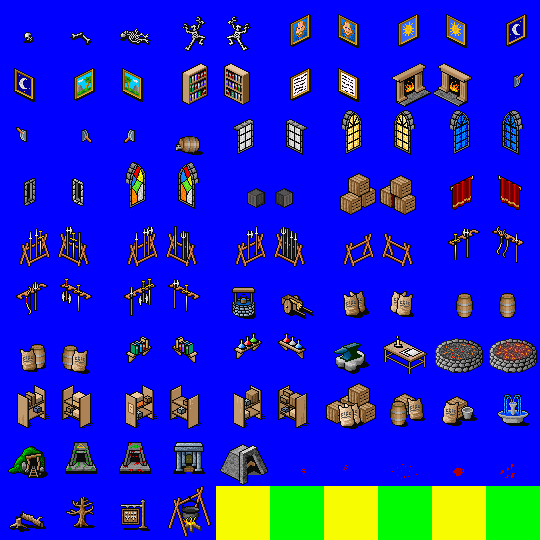
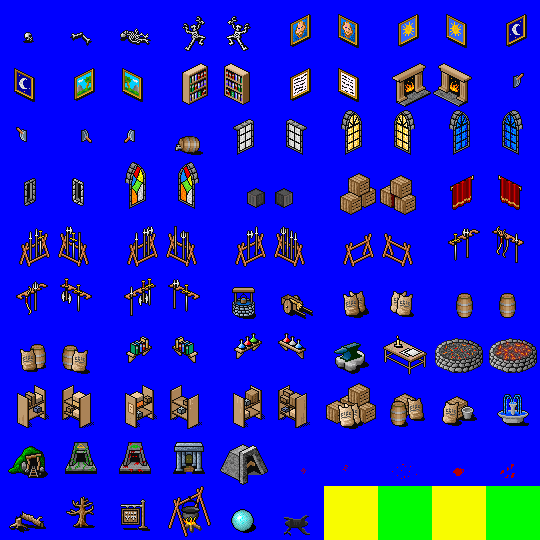
Started Special_Encounters, attack and truce conversation options working.

Changed region(s): [[0.3852, 0.8889, 0.6222, 1.0]]

diff --git a/narrator/specencounters.py b/narrator/specencounters.py
@@ -1,4 +1,4 @@
-from plots import Plot,PlotError
+from plots import Plot,PlotError,PlotState
 import context
 import items
 import maps
@@ -10,5 +10,109 @@ import teams
 import characters
 import random
 import randmaps
+import effects
+import stats
+import animobs
+
+#  *****************************
+#  ***   SPECIAL_ENCOUNTER   ***
+#  *****************************
+#
+# A harder-than-normal encounter with better-than-normal treasure. Or just an
+# unusual encounter that you don't want showing up all over the place.
+#
+
+class DragonLair( Plot ):
+    LABEL = "zSPECIAL_ENCOUNTER"
+    UNIQUE = True
+    @classmethod
+    def matches( self, pstate ):
+        """Requires the LOCALE to exist."""
+        return pstate.elements.get("LOCALE")
+    def custom_init( self, nart ):
+        scene = self.elements.get("LOCALE")
+        mygen = nart.get_map_generator( scene )
+        room = mygen.DEFAULT_ROOM()
+
+        self.register_element( "_EXTERIOR", room, dident="LOCALE" )
+
+        interior = maps.Scene( 50,50, sprites={maps.SPRITE_WALL: "terrain_wall_mine.png", 
+            maps.SPRITE_GROUND: "terrain_ground_under.png", maps.SPRITE_FLOOR: "terrain_floor_gravel.png",
+            maps.SPRITE_CHEST: "terrain_chest_metal.png", maps.SPRITE_INTERIOR: "terrain_int_temple.png" },
+            biome=context.HAB_CAVE, setting=self.setting, desctags=(context.MAP_DUNGEON,context.MAP_GODOWN,context.GEN_DRAGON) )
+        igen = randmaps.CaveScene( interior )
+
+        interior.name = "{0} Manor".format( namegen.ELDRITCH.gen_word() )
+
+        gate_1 = waypoints.Pit()
+        gate_2 = waypoints.SpiralStairsUp()
+        gate_1.destination = interior
+        gate_1.otherside = gate_2
+        gate_2.destination = scene
+        gate_2.otherside = gate_1
+
+        self.register_scene( nart, interior, igen, ident="BUILDING_INT", dident="LOCALE" )
+
+        int_mainroom = randmaps.rooms.SharpRoom( tags=(context.ENTRANCE,), anchor=randmaps.anchors.south, parent=interior )
+        int_mainroom.contents.append( gate_2 )
+        int_mainroom.contents.append( maps.SKULL_ALTAR )
+        gate_2.anchor = randmaps.anchors.south
+
+        # Add the goal room, move the target there.
+        int_goalroom = randmaps.rooms.SharpRoom( tags=(context.GOAL,), parent=interior )
+        target = self.elements[ "TARGET" ]
+        if isinstance( target, items.Item ):
+            dest = waypoints.SmallChest()
+            dest.stock( self.rank )
+            int_goalroom.contents.append( dest )
+        else:
+            dest = int_goalroom
+        self.move_element( ele=target,dest=dest )
+
+
+class EnemyParty( Plot ):
+    LABEL = "SPECIAL_ENCOUNTER"
+    active = True
+    scope = "LOCALE"
+    @classmethod
+    def matches( self, pstate ):
+        """Requires the LOCALE to exist."""
+        return pstate.elements.get("LOCALE")
+    FIGHTERS = ( characters.Warrior, characters.Samurai, characters.Knight, characters.Monk, None )
+    THIEVES = ( characters.Thief, characters.Ninja, characters.Bard, characters.Ranger, None )
+    PRIESTS = ( characters.Priest, characters.Druid, None )
+    MAGES = ( characters.Mage, characters.Necromancer, None )
+    def custom_init( self, nart ):
+        # Add a group of humanoids, neutral reaction score.
+        scene = self.elements.get("LOCALE")
+        mygen = nart.get_map_generator( scene )
+        room = mygen.DEFAULT_ROOM()
+        myteam = self.register_element( "TEAM", teams.Team( default_reaction=-30, strength=0 ) )
+        room.contents.append( myteam )
+        self.register_element( "_ROOM", room, dident="LOCALE" )
+        p1 = self.register_element( "NPC1", monsters.generate_npc(team=myteam,job=random.choice( self.FIGHTERS ),upgrade=True,rank=self.rank), dident="_ROOM")
+        p2 = self.register_element( "NPC2", monsters.generate_npc(team=myteam,job=random.choice( self.THIEVES ),upgrade=True,rank=self.rank), dident="_ROOM")
+        p3 = self.register_element( "NPC3", monsters.generate_npc(team=myteam,job=random.choice( self.PRIESTS ),upgrade=True,rank=self.rank), dident="_ROOM")
+        p4 = self.register_element( "NPC4", monsters.generate_npc(team=myteam,job=random.choice( self.MAGES ),upgrade=True,rank=self.rank), dident="_ROOM")
+        self.add_sub_plot( nart, "RESOURCE_NPCCONVO", PlotState( elements={"NPC":random.choice((p1,p2,p3,p4))} ).based_on( self ) )
+        return True
+    def do_truce( self, explo ):
+        self.elements["TEAM"].charm_roll = 999
+    def get_generic_offers( self, npc, explo ):
+        ol = list()
+        if npc.team is self.elements["TEAM"]:
+            ol.append( dialogue.Offer( msg = "Well that's disappointing... I was hoping for a good fight.",
+             context = context.ContextTag( [context.TRUCE] ), effect=self.do_truce)
+            )
+            ol.append( dialogue.Offer( msg = "[ATTACK]",
+             context = context.ContextTag( [context.ATTACK] ))
+            )
+        return ol
+
+
+
+
+
+
 
 

diff --git a/narrator/specfeatures.py b/narrator/specfeatures.py
@@ -254,6 +254,8 @@ class RedHerringsChest( Plot ):
 
 class RivalParty( Plot ):
     LABEL = "SPECIAL_FEATURE"
+    active = True
+    scope = "LOCALE"
     @classmethod
     def matches( self, pstate ):
         """Requires the LOCALE to exist."""
@@ -262,13 +264,13 @@ class RivalParty( Plot ):
     THIEVES = ( characters.Thief, characters.Ninja, characters.Bard, characters.Ranger, None )
     PRIESTS = ( characters.Priest, characters.Druid, None )
     MAGES = ( characters.Mage, characters.Necromancer, None )
-    LANDMARKS = ( waypoints.HealingFountain, )
+    LANDMARKS = ( waypoints.Fountain,waypoints.PowerCrystal,waypoints.Campsite )
     def custom_init( self, nart ):
         # Add a group of humanoids, neutral reaction score.
         scene = self.elements.get("LOCALE")
         mygen = nart.get_map_generator( scene )
         room = mygen.DEFAULT_ROOM()
-        myteam = teams.Team( default_reaction=10, strength=0 )
+        myteam = self.register_element( "TEAM", teams.Team( default_reaction=0, strength=0 ) )
         room.contents.append( myteam )
         self.register_element( "_ROOM", room, dident="LOCALE" )
         p1 = self.register_element( "NPC1", monsters.generate_npc(team=myteam,job=random.choice( self.FIGHTERS ),upgrade=True,rank=self.rank), dident="_ROOM")
@@ -278,6 +280,18 @@ class RivalParty( Plot ):
         self.add_sub_plot( nart, "RESOURCE_NPCCONVO", PlotState( elements={"NPC":random.choice((p1,p2,p3,p4))} ).based_on( self ) )
         room.contents.append( random.choice( self.LANDMARKS )() )
         return True
+    def do_truce( self, explo ):
+        self.elements["TEAM"].charm_roll = 999
+    def get_generic_offers( self, npc, explo ):
+        ol = list()
+        if npc.team is self.elements["TEAM"]:
+            ol.append( dialogue.Offer( msg = "That is a relief. This place is quite dangerous, you know.",
+             context = context.ContextTag( [context.TRUCE] ), effect=self.do_truce)
+            )
+            ol.append( dialogue.Offer( msg = "[ATTACK]",
+             context = context.ContextTag( [context.ATTACK] ))
+            )
+        return ol
 
 
 class WildernessInn( Plot ):

diff --git a/waypoints.py b/waypoints.py
@@ -92,6 +92,12 @@ class Bookshelf( Waypoint ):
     desc = "You stand before a bookshelf."
     mini_map_label = "Bookshelf"
 
+class Campsite( Waypoint ):
+    TILE = maps.Tile( None, None, maps.CAULDRON )
+    desc = "You stand before a fire."
+    mini_map_label = "Campsite"
+
+
 class Fountain( Waypoint ):
     TILE = maps.Tile( None, None, maps.FOUNTAIN )
     desc = "You stand before a fountain."
@@ -134,6 +140,33 @@ class OpenGateDoor( Waypoint ):
             explo.camp.entrance = self.otherside
         else:
             explo.alert( "This door doesn't seem to go anywhere." )
+
+class Pit( Waypoint ):
+    TILE = maps.Tile( None, None, maps.Pit )
+    ATTACH_TO_WALL = False
+    destination = None
+    otherside = None
+    desc = "You stand before a pit."
+    mini_map_label = "Pit"
+    def unlocked_use( self, explo ):
+        if self.destination and self.otherside:
+            explo.camp.destination = self.destination
+            explo.camp.entrance = self.otherside
+        else:
+            explo.alert( self.desc )
+
+class PowerCrystal( Waypoint ):
+    TILE = maps.Tile( None, None, maps.CRYSTAL_ORB )
+    desc = "You stand before a large crystal."
+    mini_map_label = "Power Crystal"
+    HEAL_FX = effects.ManaRestore( dice=(1,6,9999), stat_bonus=None )
+    def unlocked_use( self, explo ):
+        # Perform this waypoint's special action.
+        targets = list()
+        for pc in explo.camp.party:
+            if pc.is_alright():
+                targets.append( pc.pos )
+        explo.invoke_effect( self.HEAL_FX, None, targets )
 
 
 class SpiralStairsUp( Waypoint ):

diff --git a/effects.py b/effects.py
@@ -259,6 +259,27 @@ class ManaDamage( NoEffect ):
             anims.append( animobs.Caption( str(dmg), pos, delay=delay, color=(250,0,250) ) )
         return self.children
 
+class ManaRestore( NoEffect ):
+    def __init__(self, dice=(1,6,0), stat_bonus=None, children=None, anim=animobs.YellowSparkle ):
+        self.dice = dice
+        self.stat_bonus = stat_bonus
+        if not children:
+            children = list()
+        self.children = children
+        self.anim = anim
+
+    def handle_effect( self, camp, originator, pos, anims, delay=0 ):
+        """Apply some mana damage to whoever is in the indicated tile."""
+        target = camp.scene.get_character_at_spot( pos )
+        if target:
+            dmg = sum( random.randint(1,self.dice[1]) for x in range( self.dice[0] ) ) + self.dice[2]
+            if self.stat_bonus and originator:
+                dmg = max( dmg + ( originator.get_stat( self.stat_bonus ) - 11 ) // 2 , 1 )
+            dmg = min( dmg, target.mp_damage )
+            target.mp_damage -= dmg
+            anims.append( animobs.Caption( str(dmg), pos, delay=delay, color=(0,150,250) ) )
+        return self.children
+
 class StatDamage( NoEffect ):
     def __init__(self, stat_to_damage=stats.STRENGTH, amount=1, children=None, anim=None ):
         self.amount = amount

diff --git a/maps.py b/maps.py
@@ -314,6 +314,8 @@ FLOOR_BLOOD = VariableTerrain( "FLOOR_BLOOD", spritesheet = SPRITE_DECOR, block_
 TREE_STUMP = VariableTerrain( "TREE_STUMP", spritesheet = SPRITE_DECOR, block_walk=True, frames = (90,91) )
 SIGNPOST = SingTerrain( "SIGNPOST", spritesheet = SPRITE_DECOR, block_walk=True, frame = 92 )
 CAULDRON = SingTerrain( "CAULDRON", spritesheet = SPRITE_DECOR, block_walk=True, frame = 93 )
+CRYSTAL_ORB = SingTerrain( "CRYSTAL_ORB", spritesheet = SPRITE_DECOR, block_walk=True, frame = 94 )
+PIT = SingTerrain( "PIT", spritesheet = SPRITE_DECOR, block_walk=True, frame = 95 )
 
 BED_HEAD = BedHeadTerrain( "BED_HEAD", block_walk=True, frame=2 )
 BED_FOOT = BedFootTerrain( "BED_FOOT", block_walk=True, frame=4, partner=BED_HEAD )

diff --git a/dialogue/offers.py b/dialogue/offers.py
@@ -90,3 +90,10 @@ HELLO_INNKEEPER = Offer( msg = "[HELLO_SERVICE_INN]" ,
 
 THREATEN_BASIC = Offer( msg = "You think you can defeat us? We will defeat you!" , context = ContextTag( [context.THREATEN] ) )
 
+
+THREATEN_ATTACK_OR_TRUCE = Offer( msg = "Halt! Are you friend or foe?" , context = ContextTag( [context.THREATEN] ),
+        replies = [ Reply( "Foe!", destination = Cue( ContextTag([context.ATTACK]))),
+            Reply( "Friend!", destination = Cue( ContextTag([context.TRUCE])))
+        ] )
+
+

diff --git a/narrator/resources.py b/narrator/resources.py
@@ -31,7 +31,7 @@ class RNC_GeneralMerchant( Plot ):
     def custom_init( self, nart ):
         # Add a shop.
         self.shop = self.register_element( "SHOPSERVICE", services.Shop( ware_types=services.MINIMAL_STORE, rank=self.rank+3,
-         allow_misc=True, allow_magic=True, num_items=15 ) )
+         allow_misc=True, allow_magic=True, num_items=10 ) )
         self.first_time = True
         return True
     def SpeakFirstTime( self, explo ):

diff --git a/dialogue/replies.py b/dialogue/replies.py
@@ -79,7 +79,7 @@ PROBLEM_TO_PROBLEM = Reply( "Is there anything else wrong?",
             destination = Cue( ContextTag([context.PROBLEM])),
             context = ContextTag([context.PROBLEM]) )
 
-THREATEN_TO_ATTACK = Reply( "We will defeat you!",
+THREATEN_TO_ATTACK = Reply( "Prepare to die!",
             destination = Cue( ContextTag([context.ATTACK])),
             context = ContextTag([context.THREATEN]) )
 

diff --git a/narrator/citybits.py b/narrator/citybits.py
@@ -57,6 +57,7 @@ class CityOnEdgeOfCiv( Plot ):
         for t in range( random.randint(1,4) ):
             self.add_sub_plot( nart, "ENCOUNTER" )
         self.add_sub_plot( nart, "SPECIAL_FEATURE" )
+        self.add_sub_plot( nart, "SPECIAL_ENCOUNTER" )
 
         self.add_sub_plot( nart, "CITY_STORY", PlotState(rank=self.random_rank_in_chapter()).based_on( self ) )
 

diff --git a/dialogue/grammar.py b/dialogue/grammar.py
@@ -43,6 +43,8 @@ GRAM_DATABASE = {
         ],
     "[armor]": ["outfit","suit of armor","shield","helm","hat"
         ],
+    "[ATTACK]": [ "Die!", ""
+        ],
     "[BESTWISHES]": ["May fortune smile on you."
         ],
     "[GOODLUCK]": ["Good luck with that.","Good luck.",
